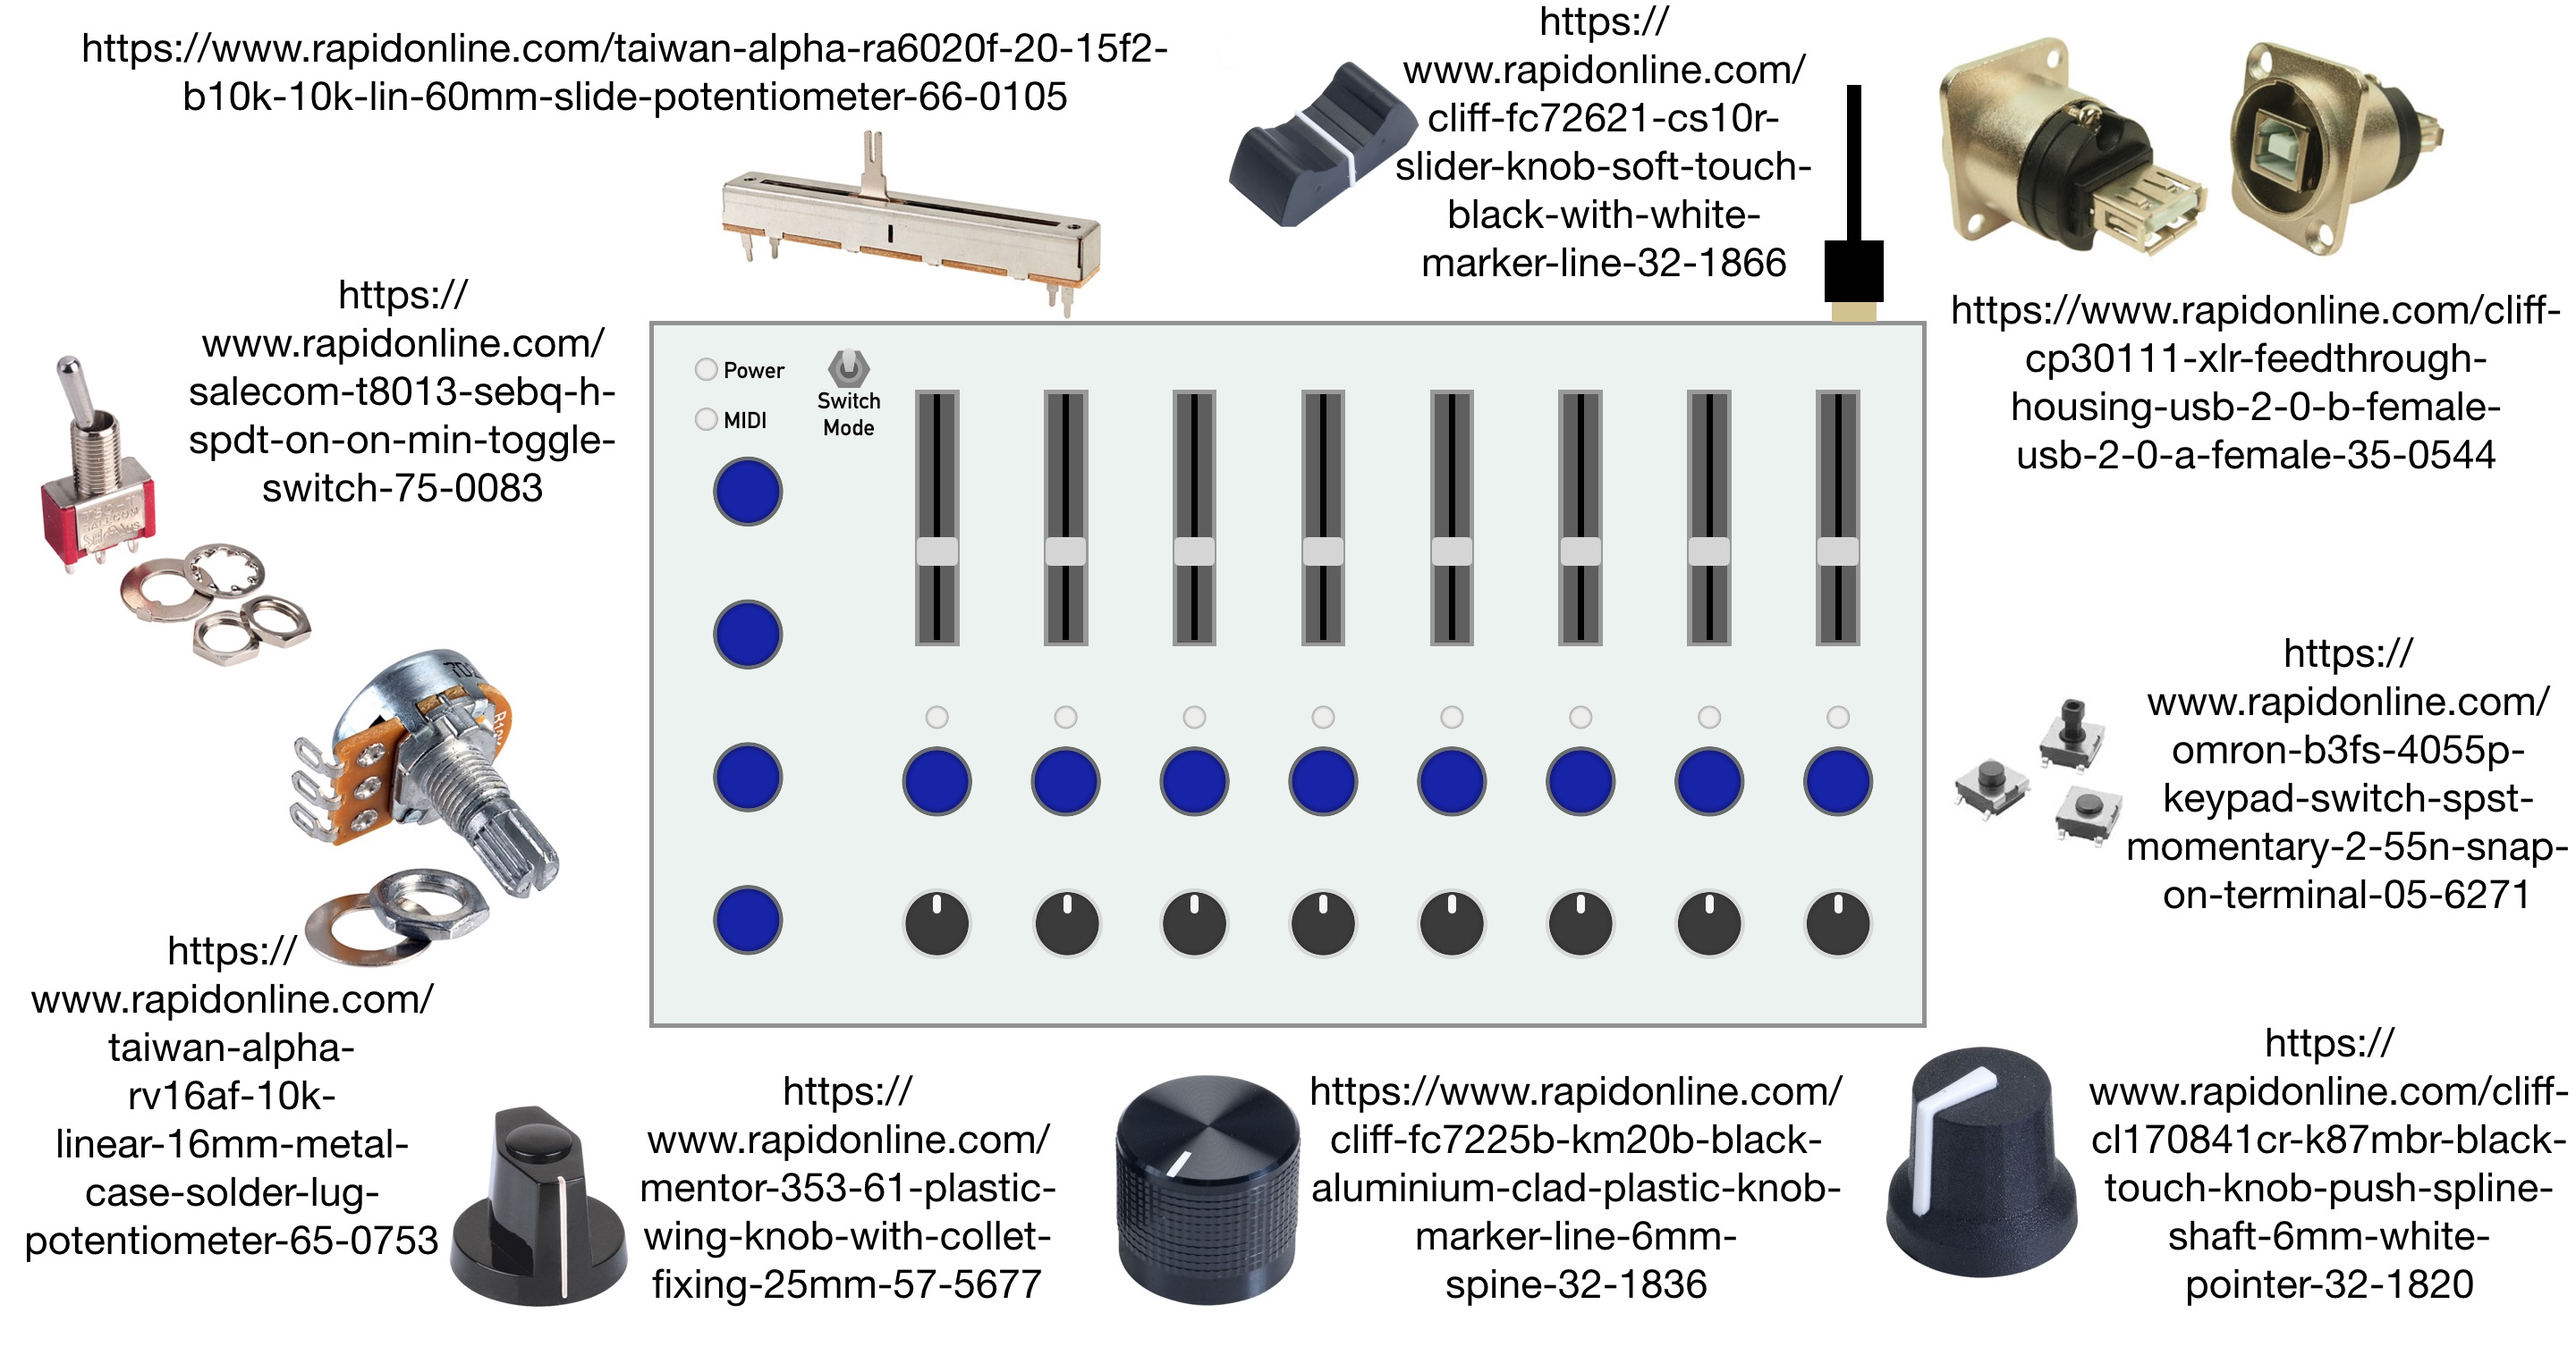
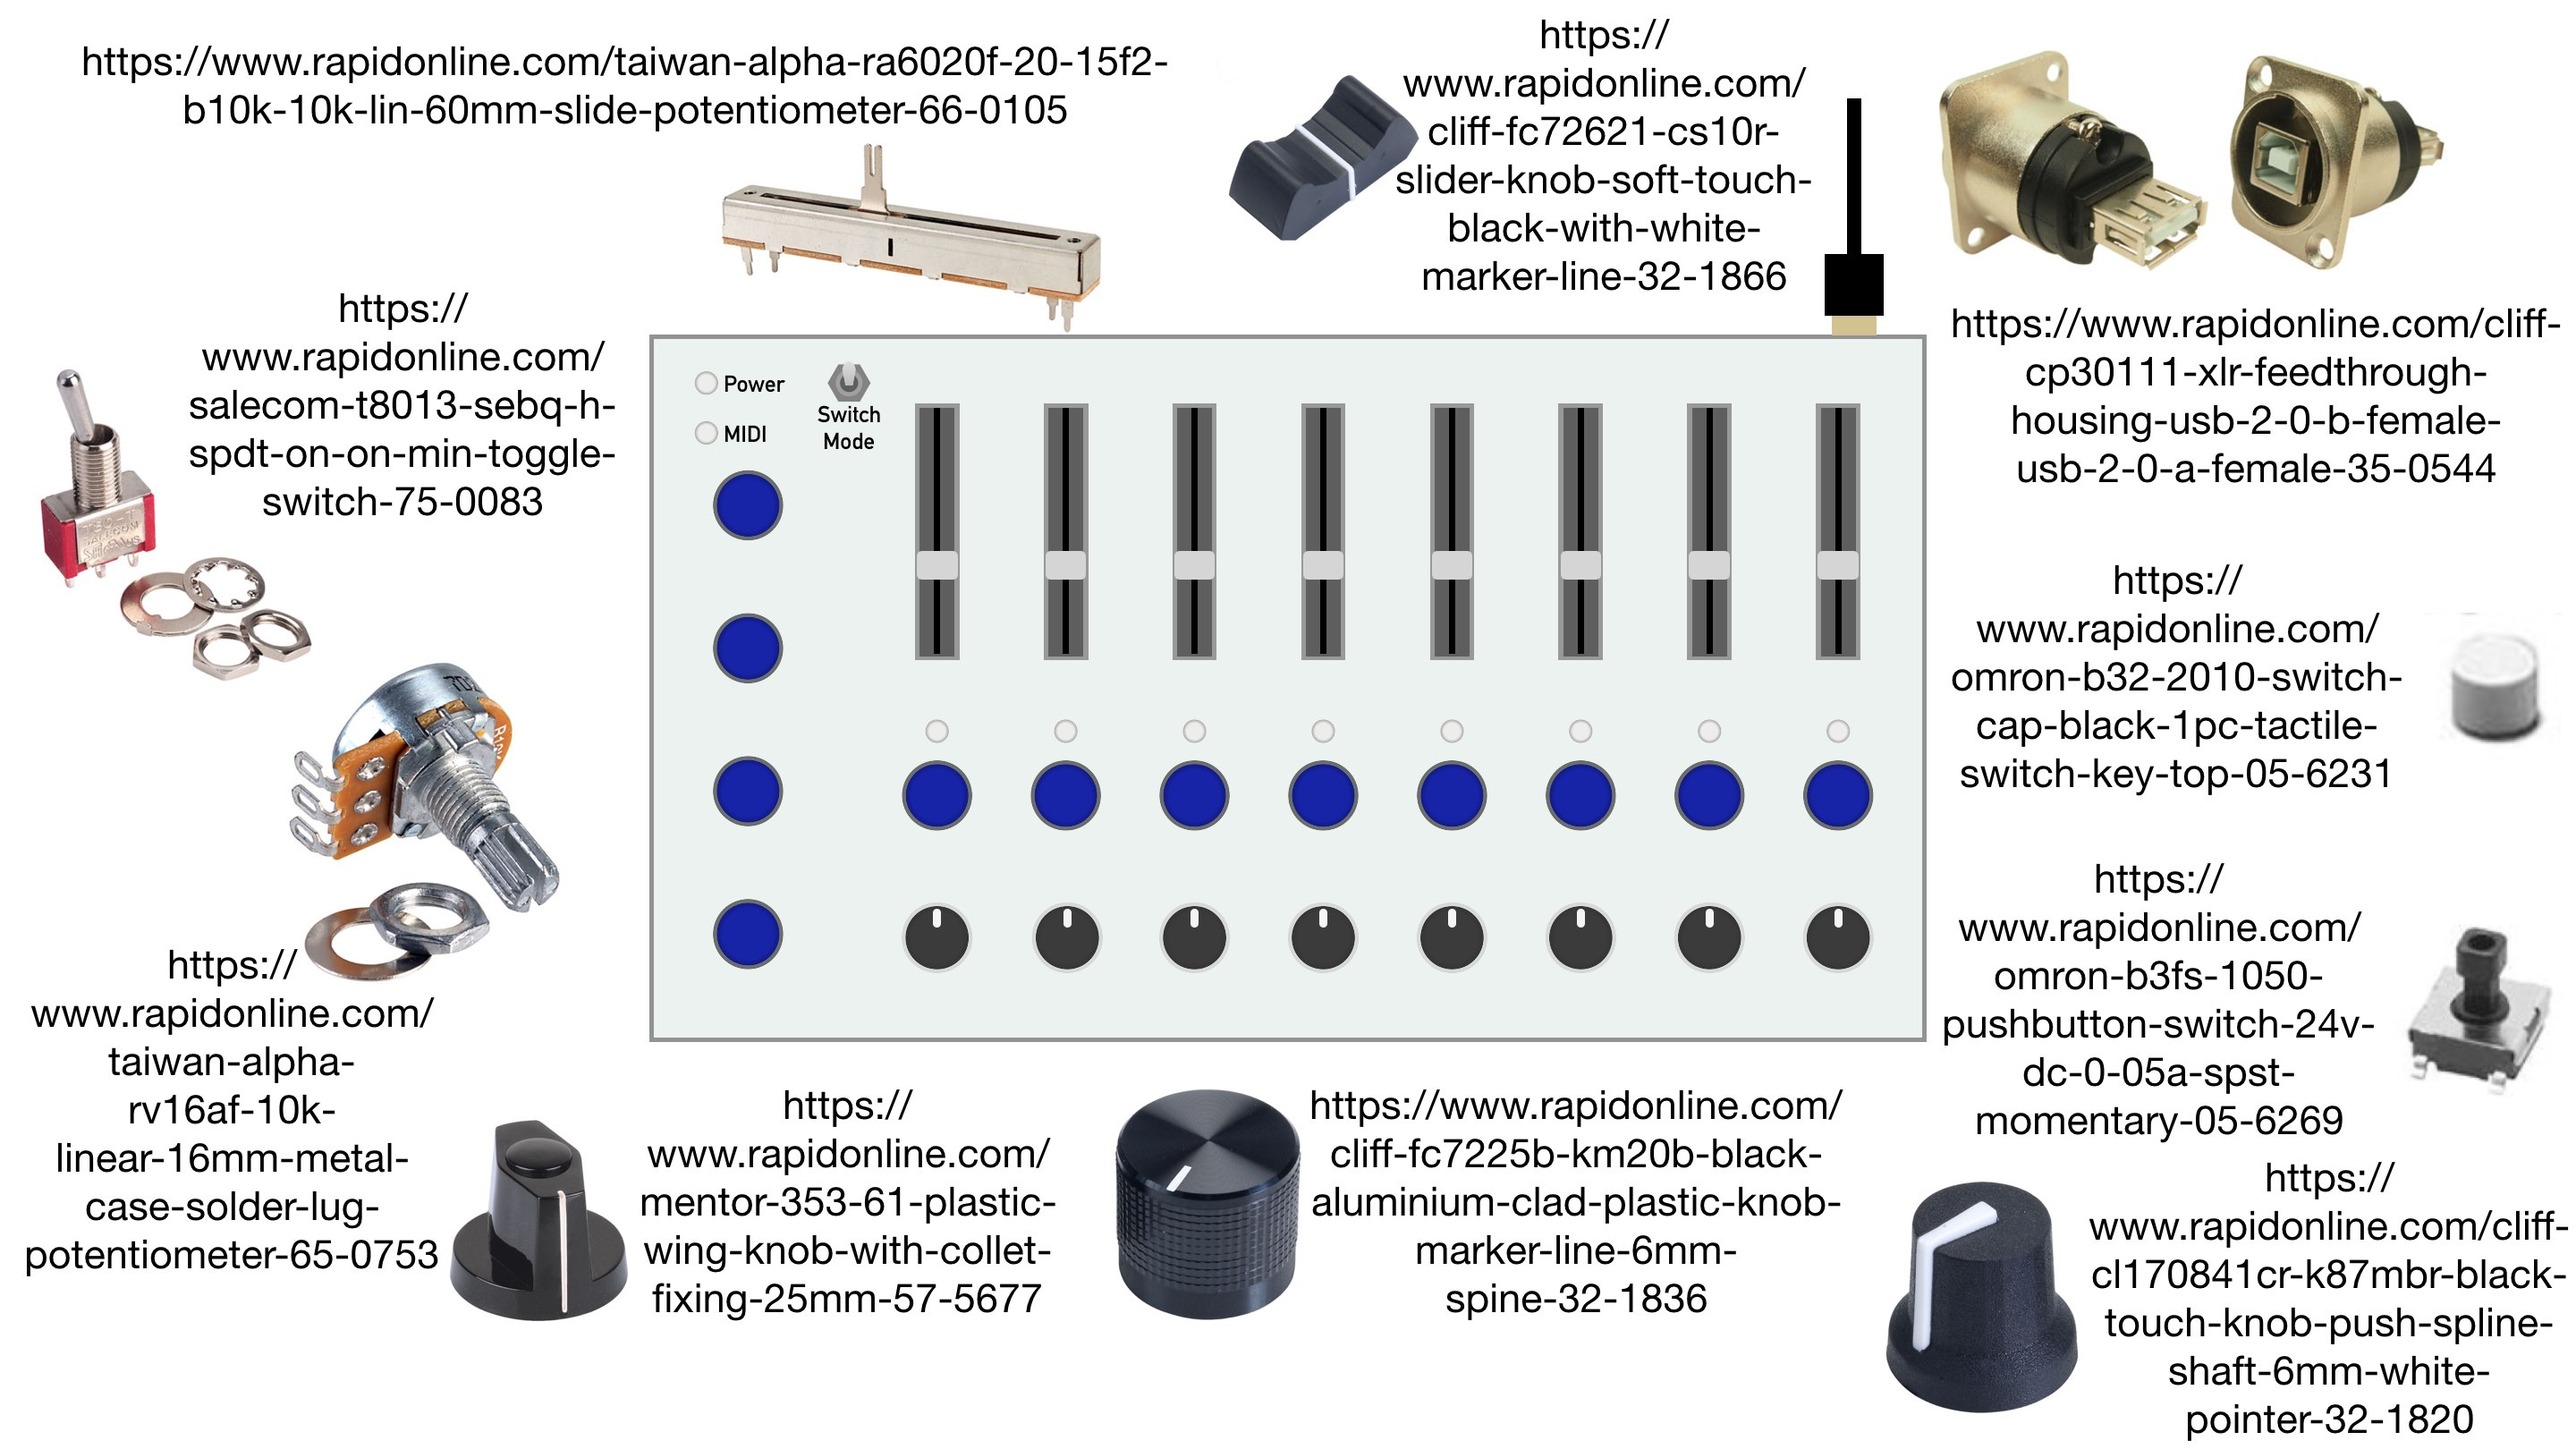
MIDI controller update

diff --git a/technician/customWork/02CustomMIDIController/log.html b/technician/customWork/02CustomMIDIController/log.html
@@ -19,6 +19,22 @@
 <p style="text-align:left;">This page contains a log of progress made on your MIDI controller, so that there's transparent documentation of the entire process. It will be updated any time I do significant work on the project. If you have any questions, feel free to <a href="mailto:ophagen@icloud.com">contact me</a>.</p>
 
 <h2>Build Log</h2>
+<h3>2026-07-29</h3>
+<p>Updated component list with chosen rotary pot knobs, new momentary switches and associated switch caps:</p>
+
+<ul>
+	<li><a href="https://www.rapidonline.com/taiwan-alpha-ra6020f-20-15f2-b10k-10k-lin-60mm-slide-potentiometer-66-0105">Slide Potentiometers</a> - &pound;1.83 x 9 = &pound;16.47</li>
+	<li><a href="https://www.rapidonline.com/cliff-fc72621-cs10r-slider-knob-soft-touch-black-with-white-marker-line-32-1866">Slide Pot Knobs</a> - &pound;0.142 x 9 = &pound;1.28</li>
+	<li><a href="https://www.rapidonline.com/cliff-cp30111-xlr-feedthrough-housing-usb-2-0-b-female-usb-2-0-a-female-35-0544">USB-B power/data port</a> - &pound;4.60 x 1 = &pound;4.60</li>
+	<li><a href="https://www.rapidonline.com/omron-b3fs-1050-pushbutton-switch-24v-dc-0-05a-spst-momentary-05-6269">Momentary switch</a> - &pound;0.977 x 13 = &pound;12.70</li>
+	<li><a href="https://www.rapidonline.com/taiwan-alpha-rv16af-10k-linear-16mm-metal-case-solder-lug-potentiometer-65-0753">Rotary Potentiometers</a> - &pound;1.18 x 9 = &pound;10.62</li>
+	<li><a href="https://www.rapidonline.com/salecom-t8013-sebq-h-spdt-on-on-min-toggle-switch-75-0083">Toggle Switch</a> - &pound;1.63 x 5 (minimum order) = &pound;8.51</li>
+	<li><a href="https://www.rapidonline.com/cliff-cl170845cr-k87mbr-black-touch-knob-push-spline-shaft-6mm-yellow-pointer-32-1826">Rotary Pot Knob (yellow trim)</a> - &pound;0.657 x 8 = &pound;5.26</li>
+	<li><a href="https://www.rapidonline.com/omron-b32-2010-switch-cap-black-1pc-tactile-switch-key-top-05-6231#mz-expanded-view-775844784672">Momentary switch caps</a> - &pound;1.06 x 8 = &pound;8.48</li>
+	<li><a href="https://www.adafruit.com/product/2540">NeoPixels</a> - &pound;37.38 - I already own this reel so will charge based on the divided down cost of the eight required NeoPixels - &pound;4.98</li>
+</ul>
+
+<p>The total price of components is therefore &pound;72.90. Note that this doesn't include the enclosure.</p>
 
 <h3>2026-07-05</h3>
 <p>Found suitable candidates for all necessary components (note that an extra linear and rotary pot have been added as insurance- I can take them off if desired). Price breakdown is as follows:</p>
@@ -27,10 +43,10 @@
 	<li><a href="https://www.rapidonline.com/taiwan-alpha-ra6020f-20-15f2-b10k-10k-lin-60mm-slide-potentiometer-66-0105">Slide Potentiometers</a> - &pound;1.83 x 9 = &pound;16.47</li>
 	<li><a href="https://www.rapidonline.com/cliff-fc72621-cs10r-slider-knob-soft-touch-black-with-white-marker-line-32-1866">Slide Pot Knobs</a> - &pound;0.142 x 9 = &pound;1.28</li>
 	<li><a href="https://www.rapidonline.com/cliff-cp30111-xlr-feedthrough-housing-usb-2-0-b-female-usb-2-0-a-female-35-0544">USB-B power/data port</a> - &pound;4.60 x 1 = &pound;4.60</li>
-	<li><a href="https://www.rapidonline.com/omron-b3fs-4055p-keypad-switch-spst-momentary-2-55n-snap-on-terminal-05-6271">Momentary switch</a> - &pound;0.691 x 1 = &pound;8.98</li>
+	<li><a href="https://www.rapidonline.com/omron-b3fs-4055p-keypad-switch-spst-momentary-2-55n-snap-on-terminal-05-6271">Momentary switch</a> - &pound;0.691 x 13 = &pound;8.98</li>
 	<li><a href="https://www.rapidonline.com/taiwan-alpha-rv16af-10k-linear-16mm-metal-case-solder-lug-potentiometer-65-0753">Rotary Potentiometers</a> - &pound;1.18 x 9 = &pound;10.62</li>
 	<li><a href="https://www.rapidonline.com/salecom-t8013-sebq-h-spdt-on-on-min-toggle-switch-75-0083">Toggle Switch</a> - &pound;1.63 x 5 (minimum order) = &pound;8.51</li>
-	<li><a href="https://www.rapidonline.com/cliff-cl170841cr-k87mbr-black-touch-knob-push-spline-shaft-6mm-white-pointer-32-1820">Rotary Pot Knob option 1</a> - &pound;0.438 x 8 = &pound;3.50</li>
+	<li><a href=zhttps://www.rapidonline.com/cliff-cl170841cr-k87mbr-black-touch-knob-push-spline-shaft-6mm-white-pointer-32-1820">Rotary Pot Knob option 1</a> - &pound;0.438 x 8 = &pound;3.50</li>
 	<li><a href="https://www.rapidonline.com/cliff-fc7225b-km20b-black-aluminium-clad-plastic-knob-marker-line-6mm-spine-32-1836">Rotary Pot Knob option 2</a> - &pound;1.34 x 8 = &pound;10.72</li>
 	<li><a href="https://www.rapidonline.com/mentor-353-61-plastic-wing-knob-with-collet-fixing-25mm-57-5677">Rotary Pot Knob option 3</a> - &pound;2.60 x 8 = &pound;20.80</li>
 	<li><a href="https://www.adafruit.com/product/2540">NeoPixels</a> - &pound;37.38 - I already own this reel so will charge based on the divided down cost of the eight required NeoPixels - &pound;4.98</li>
